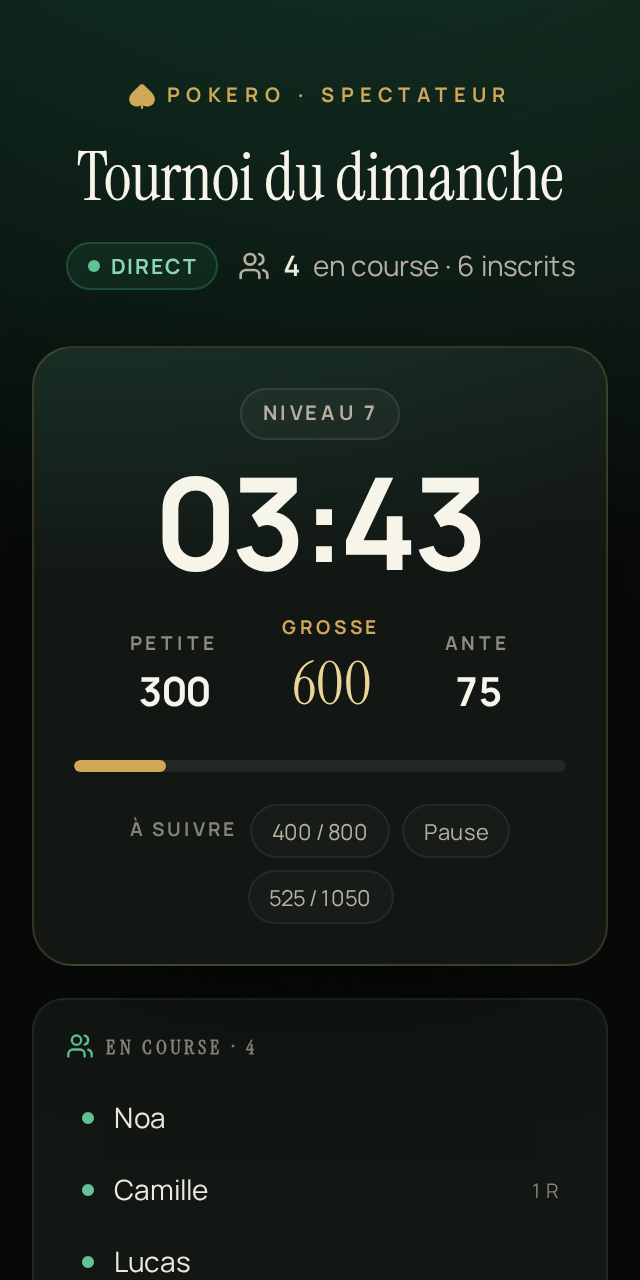
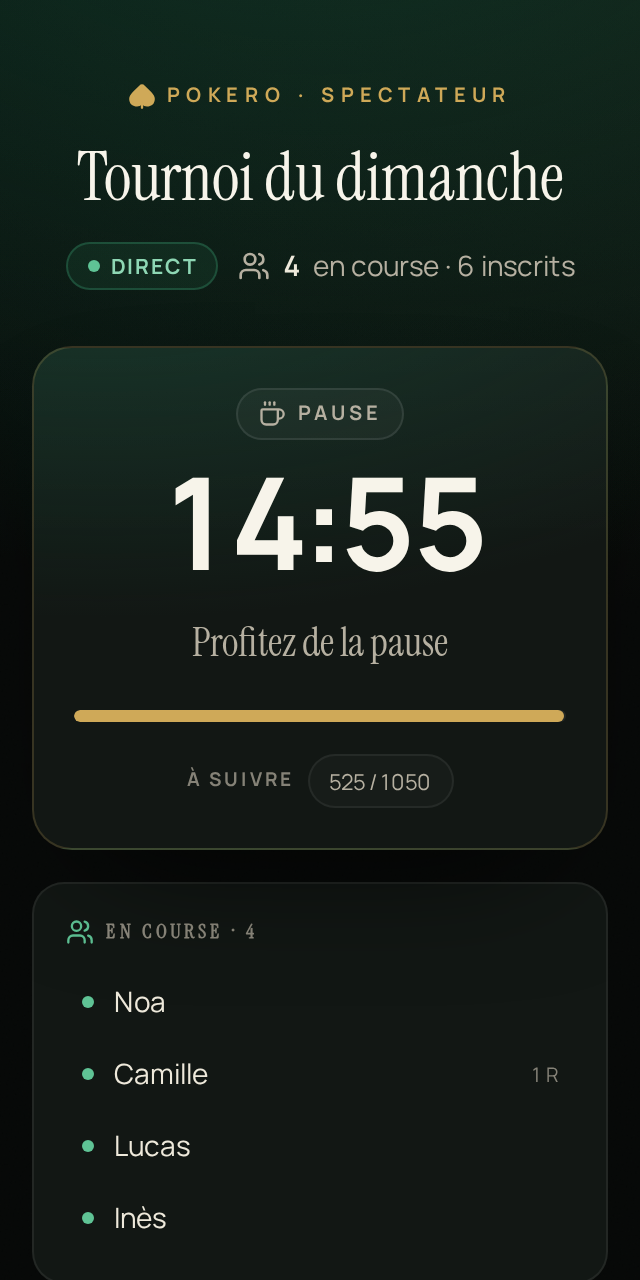
fix(web): remove em dashes from interface copy and docs

diff --git a/apps/web/src/pages/StatsPage.tsx b/apps/web/src/pages/StatsPage.tsx
@@ -85,7 +85,7 @@ export function StatsPage() {
         />
         <Stat
           label={t('stats.bestRank')}
-          value={bestRank ?? '—'}
+          value={bestRank ?? 'N/A'}
           icon={<TrendingUp className="size-4" aria-hidden />}
         />
       </section>
@@ -133,14 +133,18 @@ export function StatsPage() {
                         }`}
                         aria-hidden
                       >
-                        {participation.rank ?? '—'}
+                        {participation.rank ?? 'N/A'}
                       </span>
                       <span className="min-w-0 flex-1">
                         <span className="block truncate text-[13.5px] font-semibold text-cream-100">
                           {participation.tournamentName}
                         </span>
                         <span className="block text-[10.5px] text-cream-500 sm:hidden">
-                          {participation.rank === 1 ? 'Vainqueur' : `Place ${participation.rank ?? '—'}`}
+                          {participation.rank === 1
+                            ? 'Vainqueur'
+                            : participation.rank != null
+                              ? `Place ${participation.rank}`
+                              : 'Non classé'}
                           {participation.rebuys > 0 ? ` · ${participation.rebuys} rebuy` : ''}
                           {participation.addOns > 0 ? ` · ${participation.addOns} add-on` : ''}
                         </span>
@@ -160,7 +164,7 @@ export function StatsPage() {
                         <Crown className="mx-auto size-4 text-gold-400" aria-label="Vainqueur" />
                       ) : (
                         <span className="tabular text-[13px] text-cream-300">
-                          {participation.rank ?? '—'}
+                          {participation.rank ?? 'N/A'}
                         </span>
                       )}
                     </span>
@@ -208,7 +212,7 @@ export function StatsPage() {
                     {t('stats.averageRank')}
                   </div>
                   <div className="tabular mt-0.5 text-xl font-bold text-cream-50">
-                    {averageRank === null ? '—' : averageRank.toFixed(1)}
+                    {averageRank === null ? 'N/A' : averageRank.toFixed(1)}
                   </div>
                 </div>
                 <div>
@@ -216,7 +220,7 @@ export function StatsPage() {
                     Meilleure place
                   </div>
                   <div className="tabular mt-0.5 text-xl font-bold text-cream-50">
-                    {bestRank ?? '—'}
+                    {bestRank ?? 'N/A'}
                   </div>
                 </div>
               </div>
@@ -268,7 +272,7 @@ export function StatsPage() {
                       {result.tournamentName}
                     </span>
                     <span className="shrink-0 text-[10.5px] text-cream-500">
-                      {result.startedAt ? formatDateShort(result.startedAt) : '—'}
+                      {result.startedAt ? formatDateShort(result.startedAt) : 'N/A'}
                     </span>
                   </li>
                 ))}

diff --git a/apps/web/src/pages/TournamentNewPage.tsx b/apps/web/src/pages/TournamentNewPage.tsx
@@ -557,7 +557,7 @@ export function TournamentNewPage() {
                     setAppliedPreset(null);
                   }}
                 >
-                  <option value="">— {t('common.none')} —</option>
+                  <option value="">{t('common.none')}</option>
                   {(presetsQuery.data?.presets ?? [])
                     .filter((preset) => !preset.archived)
                     .map((preset) => (
@@ -1055,7 +1055,7 @@ export function TournamentNewPage() {
                             : `${formatChips(Number(level.smallBlind))} / ${formatChips(Number(level.bigBlind))}`}
                         </td>
                         <td className="px-3 py-1.5 tabular text-cream-400">
-                          {isBreak || !level.ante ? '—' : formatChips(Number(level.ante))}
+                          {isBreak || !level.ante ? '0' : formatChips(Number(level.ante))}
                         </td>
                         <td className="px-3 py-1.5 text-right text-cream-400">
                           {level.durationMinutes} min
@@ -1187,7 +1187,7 @@ export function TournamentNewPage() {
               <Badge tone="gold">{name || 'Sans nom'}</Badge>
             </div>
             <div className="mt-3 grid grid-cols-2 gap-2 sm:grid-cols-4">
-              <SummaryTile label="Mallette" value={selectedChipCase?.name ?? '—'} />
+              <SummaryTile label="Mallette" value={selectedChipCase?.name ?? 'Aucune'} />
               <SummaryTile label="Cave" value={formatChips(targetBuyIn)} hint={`${players} joueurs`} />
               <SummaryTile
                 label="Structure"

diff --git a/apps/web/src/pages/TournamentPage.tsx b/apps/web/src/pages/TournamentPage.tsx
@@ -419,9 +419,9 @@ export function TournamentPage() {
               </span>
             </div>
             <p className="mt-0.5 flex flex-wrap items-center gap-x-2 gap-y-0.5 text-[11.5px] text-cream-400">
-              <span className="truncate">{tournament.settings?.chipCaseName ?? '—'}</span>
+              <span className="truncate">{tournament.settings?.chipCaseName ?? 'Aucune'}</span>
               <span className="text-cream-500" aria-hidden>·</span>
-              <span>{t('common.level')} {clock?.playLevelNumber ?? '—'}</span>
+              <span>{t('common.level')} {clock?.playLevelNumber ?? 'N/A'}</span>
               <span className="text-cream-500" aria-hidden>·</span>
               <span>{t('common.players')} {tournament.participants.length}</span>
             </p>
@@ -932,10 +932,10 @@ export function TournamentPage() {
                             )}
                           </td>
                           <td className="px-3 py-2.5 tabular font-semibold">
-                            {isBreak ? '—' : formatChips(level.bigBlind)}
+                            {isBreak ? 'N/A' : formatChips(level.bigBlind)}
                           </td>
                           <td className="px-3 py-2.5 tabular text-cream-400">
-                            {level.ante ? formatChips(level.ante) : '—'}
+                            {level.ante ? formatChips(level.ante) : '0'}
                           </td>
                           <td className="px-4 py-2.5 text-right text-cream-400">
                             {level.durationMinutes} min

diff --git a/apps/web/src/components/AppShell.tsx b/apps/web/src/components/AppShell.tsx
@@ -19,7 +19,7 @@ import { useToast } from './Toast';
 
 export function Brand({ compact = false }: { compact?: boolean }) {
   return (
-    <Link to="/" className="group flex shrink-0 items-center gap-2.5" aria-label="Pokero — accueil">
+    <Link to="/" className="group flex shrink-0 items-center gap-2.5" aria-label="Pokero, accueil">
       <span className="relative grid size-9 place-items-center rounded-[10px] border border-gold-400/50 bg-gold-500 text-night-950 shadow-[inset_0_1px_0_rgb(255_255_255/0.35),0_6px_16px_-8px_rgb(207_169_88/0.6)] transition-colors group-hover:bg-gold-400">
         <Spade className="size-[19px]" fill="currentColor" strokeWidth={1.5} />
       </span>
@@ -215,7 +215,7 @@ export function AppShell() {
 
       <footer className="hidden border-t border-white/[0.05] px-6 py-5 md:block">
         <div className="mx-auto flex max-w-[1200px] items-center justify-between text-[11px] text-cream-500">
-          <span>Pokero — gestion de tournois de poker</span>
+          <span>Pokero · gestion de tournois de poker</span>
           <span className="inline-flex items-center gap-1.5">
             <Spade className="size-3 text-gold-500" aria-hidden />
             Les données restent sur votre serveur

diff --git a/apps/web/src/pages/ProjectionPage.tsx b/apps/web/src/pages/ProjectionPage.tsx
@@ -84,7 +84,7 @@ export function ProjectionPage() {
   const ranking = detailQuery.data?.ranking?.entries ?? [];
   const displayName = (participantId: string) =>
     tournament.participants.find((participant) => participant.id === participantId)?.displayName ??
-    '—';
+    'Joueur';
 
   return (
     <div
@@ -157,7 +157,7 @@ export function ProjectionPage() {
                     <Coffee className="size-3.5" aria-hidden /> Pause
                   </>
                 ) : (
-                  <>Niveau {clock?.playLevelNumber ?? '—'}</>
+                  <>Niveau {clock?.playLevelNumber ?? 'N/A'}</>
                 )}
               </span>
               {paused ? (
@@ -254,7 +254,7 @@ export function ProjectionPage() {
                       </span>
                       <span className="tabular shrink-0 text-sm font-semibold text-cream-100">
                         {segment.kind === 'BREAK'
-                          ? '—'
+                          ? 'N/A'
                           : `${formatChips(segment.smallBlind)} / ${formatChips(segment.bigBlind)}`}
                       </span>
                     </li>

diff --git a/apps/web/src/lib/format.ts b/apps/web/src/lib/format.ts
@@ -3,7 +3,7 @@ import { useTranslation } from 'react-i18next';
 import type { TournamentStatus } from './types';
 
 export function formatChips(value: number | null | undefined): string {
-  if (value === null || value === undefined) return '—';
+  if (value === null || value === undefined) return 'N/A';
   return new Intl.NumberFormat('fr-FR').format(value);
 }
 
@@ -26,7 +26,7 @@ export function formatMinutes(totalMinutes: number): string {
 }
 
 export function formatDate(value: string | null | undefined, locale = 'fr-FR'): string {
-  if (!value) return '—';
+  if (!value) return 'N/A';
   return new Intl.DateTimeFormat(locale, {
     dateStyle: 'medium',
     timeStyle: 'short',
@@ -34,7 +34,7 @@ export function formatDate(value: string | null | undefined, locale = 'fr-FR'): 
 }
 
 export function formatDateShort(value: string | null | undefined, locale = 'fr-FR'): string {
-  if (!value) return '—';
+  if (!value) return 'N/A';
   return new Intl.DateTimeFormat(locale, { dateStyle: 'medium' }).format(new Date(value));
 }
 

diff --git a/apps/web/src/pages/DashboardPage.tsx b/apps/web/src/pages/DashboardPage.tsx
@@ -78,14 +78,14 @@ function LiveCard({ tournament }: { tournament: TournamentSummary }) {
       <div className="mt-5 grid gap-5 lg:grid-cols-[1.2fr_1fr] lg:items-end">
         <div>
           <div className="clock-digits text-[clamp(3.4rem,11vw,5.2rem)] text-cream-50">
-            {clock ? formatDuration(remaining) : '—:—'}
+            {clock ? formatDuration(remaining) : '--:--'}
           </div>
           <div className="mt-2 flex flex-wrap items-center gap-x-4 gap-y-1 text-[13px] text-cream-300">
             <span className="inline-flex items-center gap-1.5">
               <Clock3 className="size-3.5 text-gold-500" aria-hidden />
               {clock?.kind === 'BREAK'
                 ? t('common.break')
-                : `${t('common.level')} ${clock?.playLevelNumber ?? '—'}`}
+                : `${t('common.level')} ${clock?.playLevelNumber ?? 'N/A'}`}
             </span>
             {clock?.smallBlind !== null && clock?.smallBlind !== undefined ? (
               <span className="tabular text-cream-200">

diff --git a/apps/web/src/pages/PresetsPage.tsx b/apps/web/src/pages/PresetsPage.tsx
@@ -199,13 +199,13 @@ export function PresetsPage() {
                     <PresetMetric
                       icon={<Users className="size-3.5" aria-hidden />}
                       label="Joueurs"
-                      value={String(config.buyIn?.players ?? '—')}
+                      value={String(config.buyIn?.players ?? 'N/A')}
                     />
                     <PresetMetric
                       icon={<Clock3 className="size-3.5" aria-hidden />}
                       label="Durée"
                       value={
-                        config.blinds ? formatMinutes(config.blinds.targetDurationMinutes) : '—'
+                        config.blinds ? formatMinutes(config.blinds.targetDurationMinutes) : 'N/A'
                       }
                     />
                     <PresetMetric

diff --git a/apps/web/index.html b/apps/web/index.html
@@ -4,10 +4,10 @@
     <meta charset="UTF-8" />
     <meta name="viewport" content="width=device-width, initial-scale=1.0, viewport-fit=cover" />
     <meta name="theme-color" content="#070908" />
-    <meta name="description" content="Pokero — organisez vos tournois de poker : caves, blindes, chronomètre, classements et spectateurs." />
+    <meta name="description" content="Pokero organise vos tournois de poker : caves, blindes, chronomètre, classements et spectateurs." />
     <link rel="icon" type="image/svg+xml" href="/favicon.svg" />
     <link rel="apple-touch-icon" href="/apple-touch-icon.png" />
-    <title>Pokero — tournois de poker</title>
+    <title>Pokero · tournois de poker</title>
   </head>
   <body>
     <div id="root"></div>

diff --git a/apps/web/src/lib/i18n.ts b/apps/web/src/lib/i18n.ts
@@ -161,7 +161,7 @@ const fr = {
     stockWarning: 'Stock insuffisant',
     levelUpSoon: 'Niveau suivant dans',
     onBreak: 'Pause',
-    structureExhausted: 'Structure épuisée — prolongez ou clôturez le tournoi.',
+    structureExhausted: 'Structure épuisée : prolongez ou clôturez le tournoi.',
     extendStructure: 'Prolonger la structure',
   },
   chipCase: {
@@ -419,7 +419,7 @@ const en = {
     stockWarning: 'Insufficient stock',
     levelUpSoon: 'Next level in',
     onBreak: 'Break',
-    structureExhausted: 'Structure exhausted — extend or complete the tournament.',
+    structureExhausted: 'Structure exhausted: extend or complete the tournament.',
     extendStructure: 'Extend structure',
   },
   chipCase: {

diff --git a/apps/web/src/pages/AuthPages.tsx b/apps/web/src/pages/AuthPages.tsx
@@ -80,7 +80,7 @@ function AuthShell({
         />
 
         <div className="relative">
-          <Link to="/" aria-label="Pokero — accueil">
+          <Link to="/" aria-label="Pokero, accueil">
             <BrandMark />
           </Link>
         </div>
@@ -142,7 +142,7 @@ function AuthShell({
 
       <div className="relative flex flex-col">
         <div className="flex items-center justify-between px-5 pb-0 pt-[max(1.25rem,env(safe-area-inset-top))] sm:px-8 lg:hidden">
-          <Link to="/" aria-label="Pokero — accueil">
+          <Link to="/" aria-label="Pokero, accueil">
             <BrandMark />
           </Link>
         </div>

diff --git a/apps/web/src/pages/PresetEditorPage.tsx b/apps/web/src/pages/PresetEditorPage.tsx
@@ -322,7 +322,7 @@ export function PresetEditorPage() {
                   value={config.defaultChipCaseId ?? ''}
                   onChange={(event) => patchConfig({ defaultChipCaseId: event.target.value || null })}
                 >
-                  <option value="">— {t('common.none')} —</option>
+                  <option value="">{t('common.none')}</option>
                   {chipCases.map((chipCase) => (
                     <option key={chipCase.id} value={chipCase.id}>
                       {chipCase.name}
